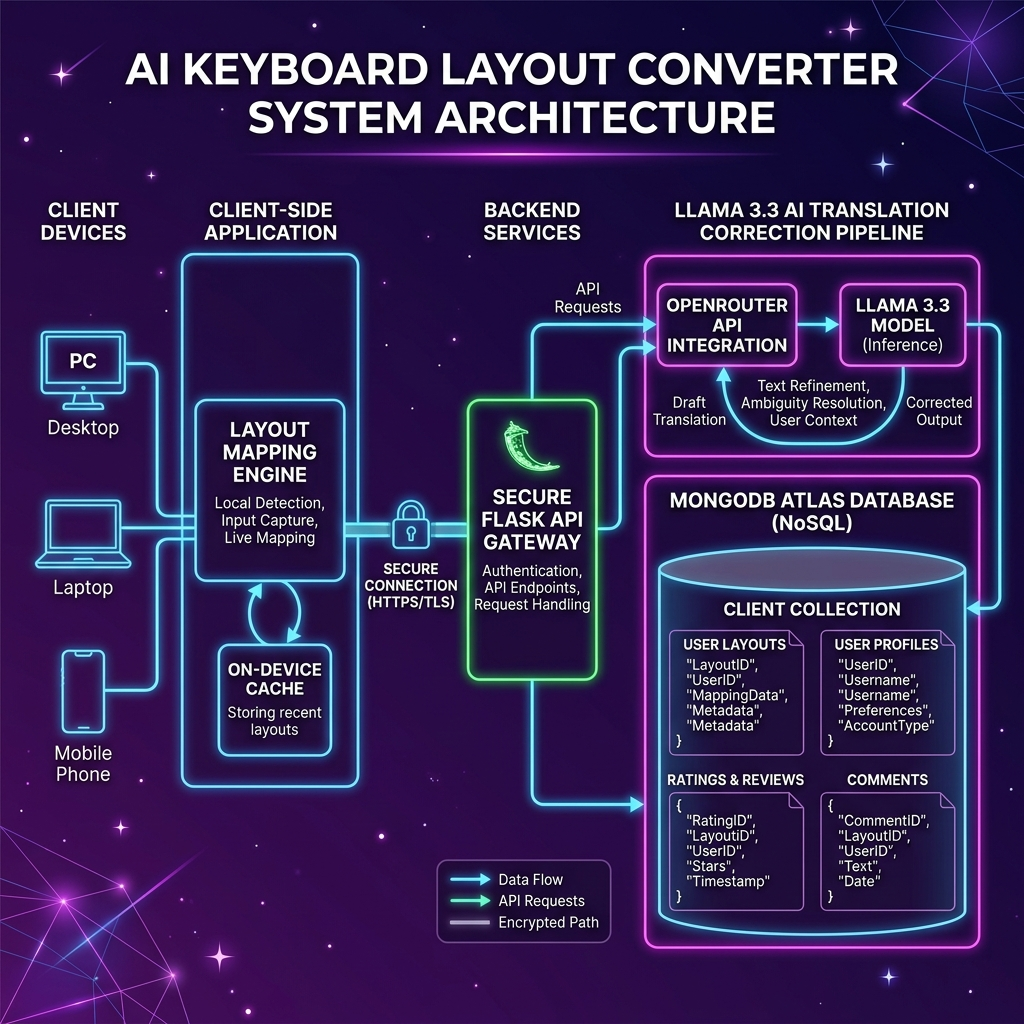
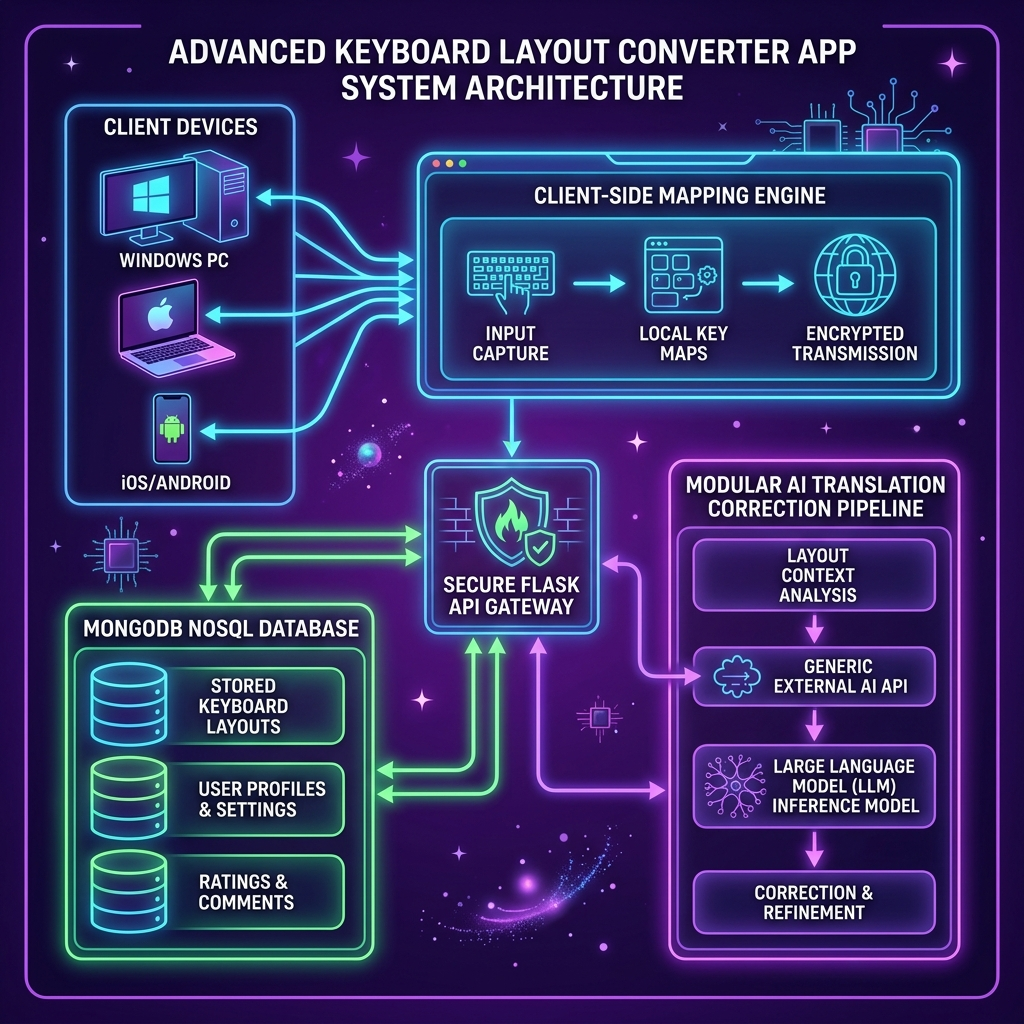
Fix Mermaid parsing error and update diagram to show generic AI pipeline

diff --git a/README.md b/README.md
@@ -45,20 +45,20 @@ The application is structured around a fast client-side SPA conversion engine wi
 graph TD
     User([User Typist]) -->|1. Type Key Events| ClientSPA[Client Web App - SPA]
     
-    subgraph Client-Side (Zero Latency)
+    subgraph "Client-Side (Zero Latency)"
         ClientSPA -->|2. Direct Offline Translation| JSConverter[converter.js Mapping Engine]
         JSConverter -->|3. Output Text Update| ClientSPA
     end
 
-    subgraph Server-Side API Layer (Secure Verification)
+    subgraph "Server-Side API Layer (Secure Verification)"
         ClientSPA -->|4. AI Correction Request| FlaskApp[Flask API Gateway - app.py]
         FlaskApp -->|5. Verify JWT & CSRF| SecurityHeaders[Middleware & Auth Filters]
         SecurityHeaders -->|6. Query Profile & Settings| UsersDB[(MongoDB Users Collection)]
         
-        SecurityHeaders -->|7. Forward Context| OpenRouter[OpenRouter API Gateway]
-        OpenRouter -->|8. Fetch LLM Corrections| LlamaModel[Meta Llama 3.3 70B Model]
+        SecurityHeaders -->|7. Forward Context| AIApi[External AI Service API]
+        AIApi -->|8. Fetch LLM Corrections| LLMModel[Large Language Model - Inference]
         
-        LlamaModel -->|9. Corrected Text JSON| FlaskApp
+        LLMModel -->|9. Corrected Text JSON| FlaskApp
         FlaskApp -->|10. Log Statistics| StatsDB[(MongoDB History Collection)]
         FlaskApp -->|11. Final Contextual Output| ClientSPA
     end